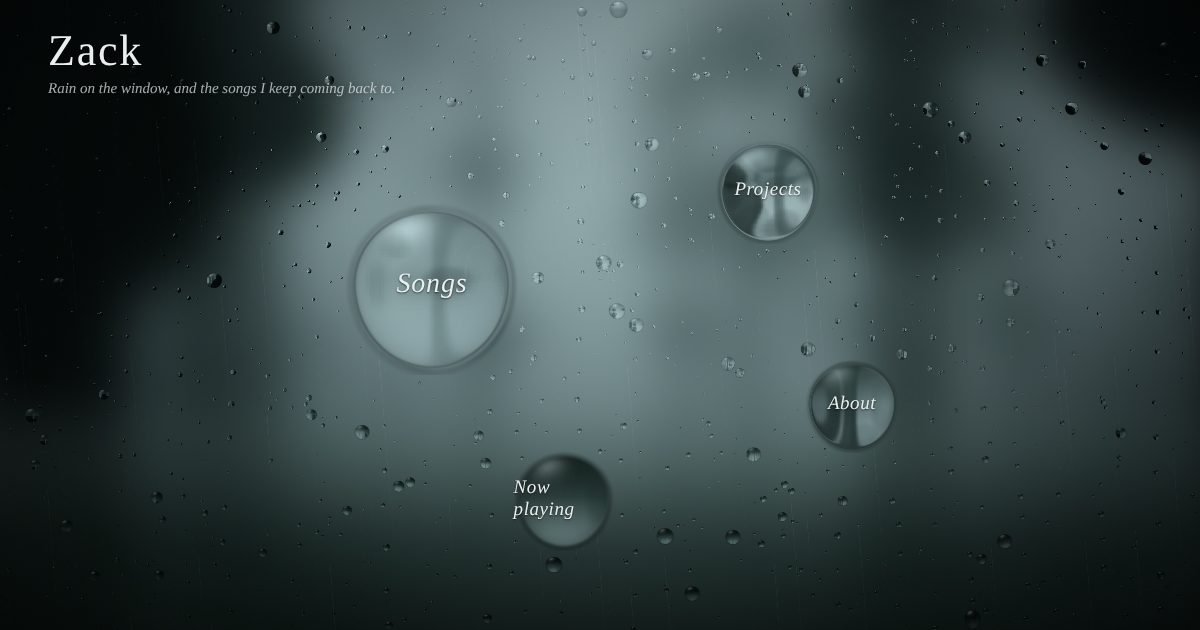
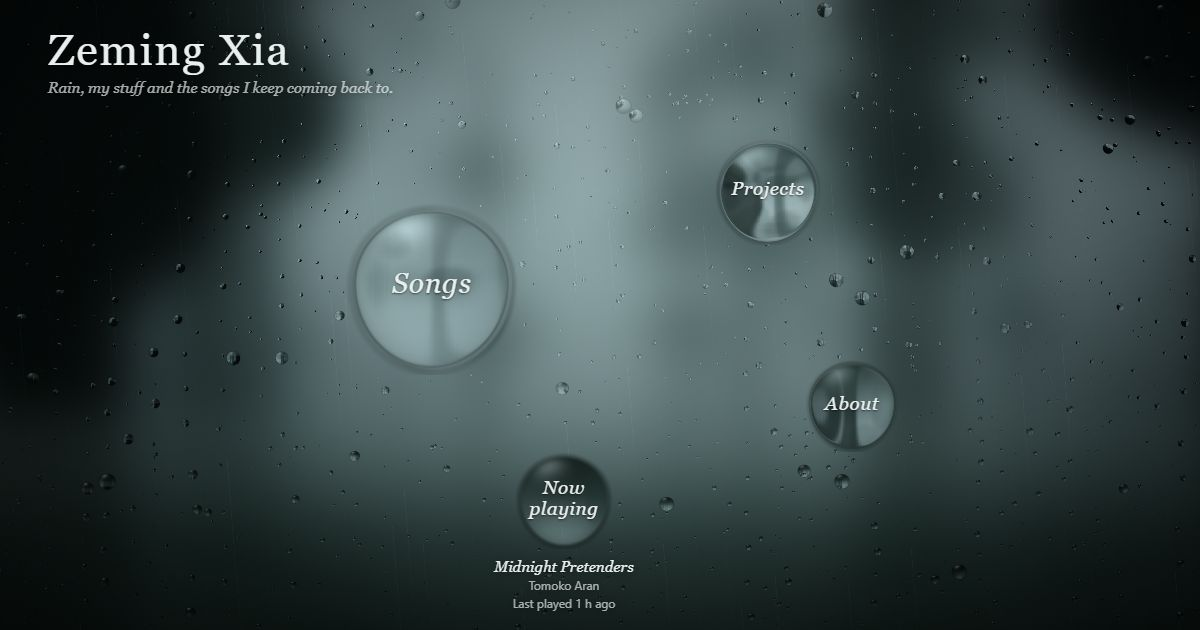
Refresh the share image and add a screenshot for this site's project

diff --git a/src/lib/data/projects.ts b/src/lib/data/projects.ts
@@ -28,6 +28,10 @@ export const projects: Project[] = [
 		],
 		stack: ['SvelteKit', 'Svelte 5', 'TypeScript', 'WebGL2', 'Spotify API', 'Deezer API', 'Vercel'],
 		when: 'Oct 2026',
+		image: {
+			src: '/projects/this-website.webp',
+			alt: 'The Songs page: songs as raindrops on a rainy window, one showing its album cover'
+		},
 		links: [
 			{ label: 'Live', href: 'https://zemingxia.com' },
 			{ label: 'Code', href: 'https://github.com/vivalavidax123/zack-website' }
